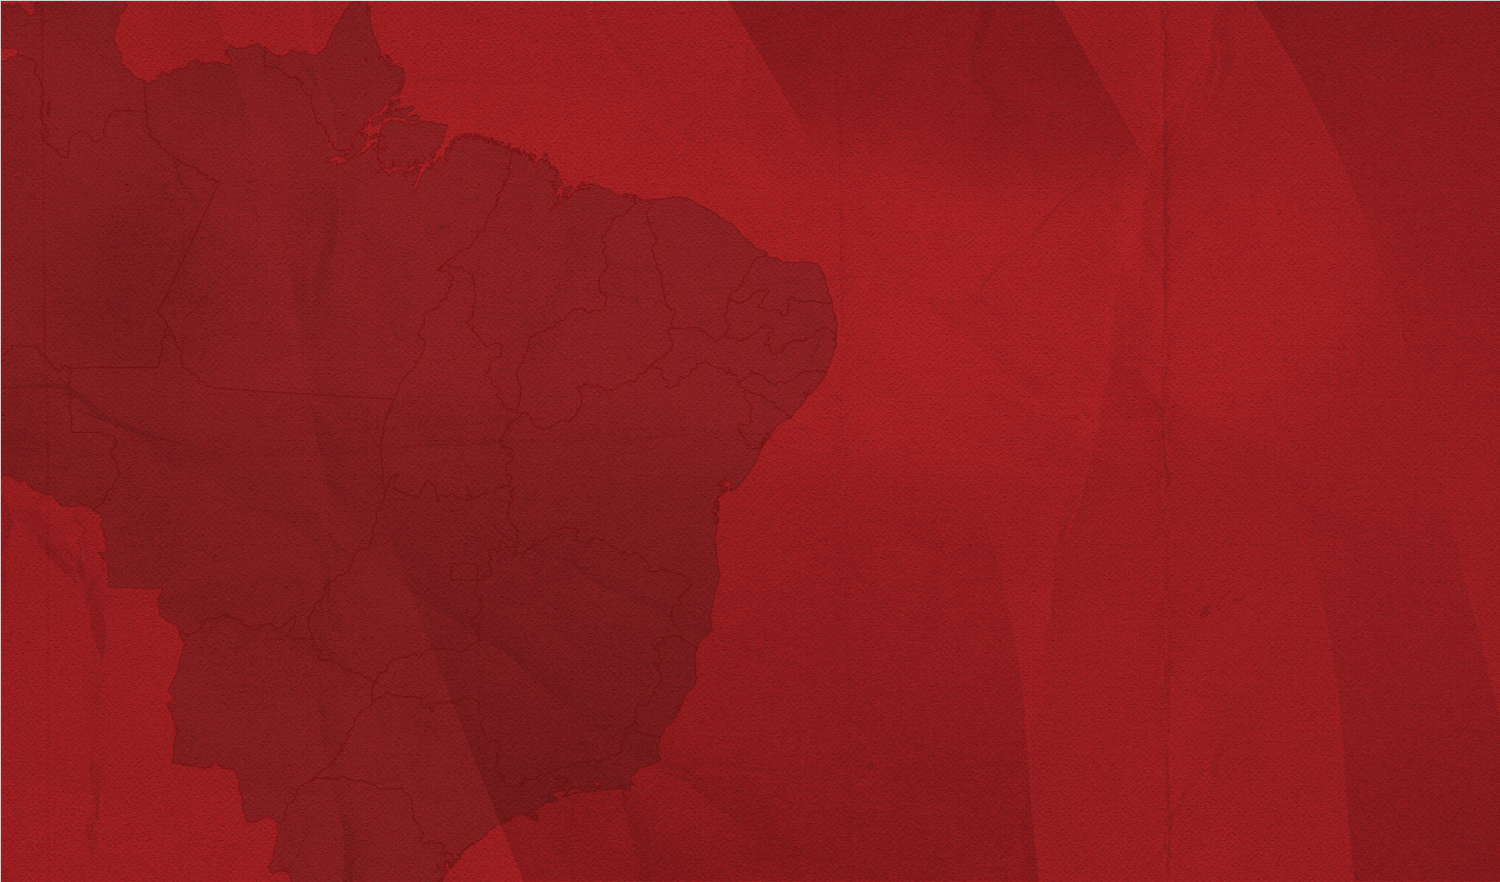
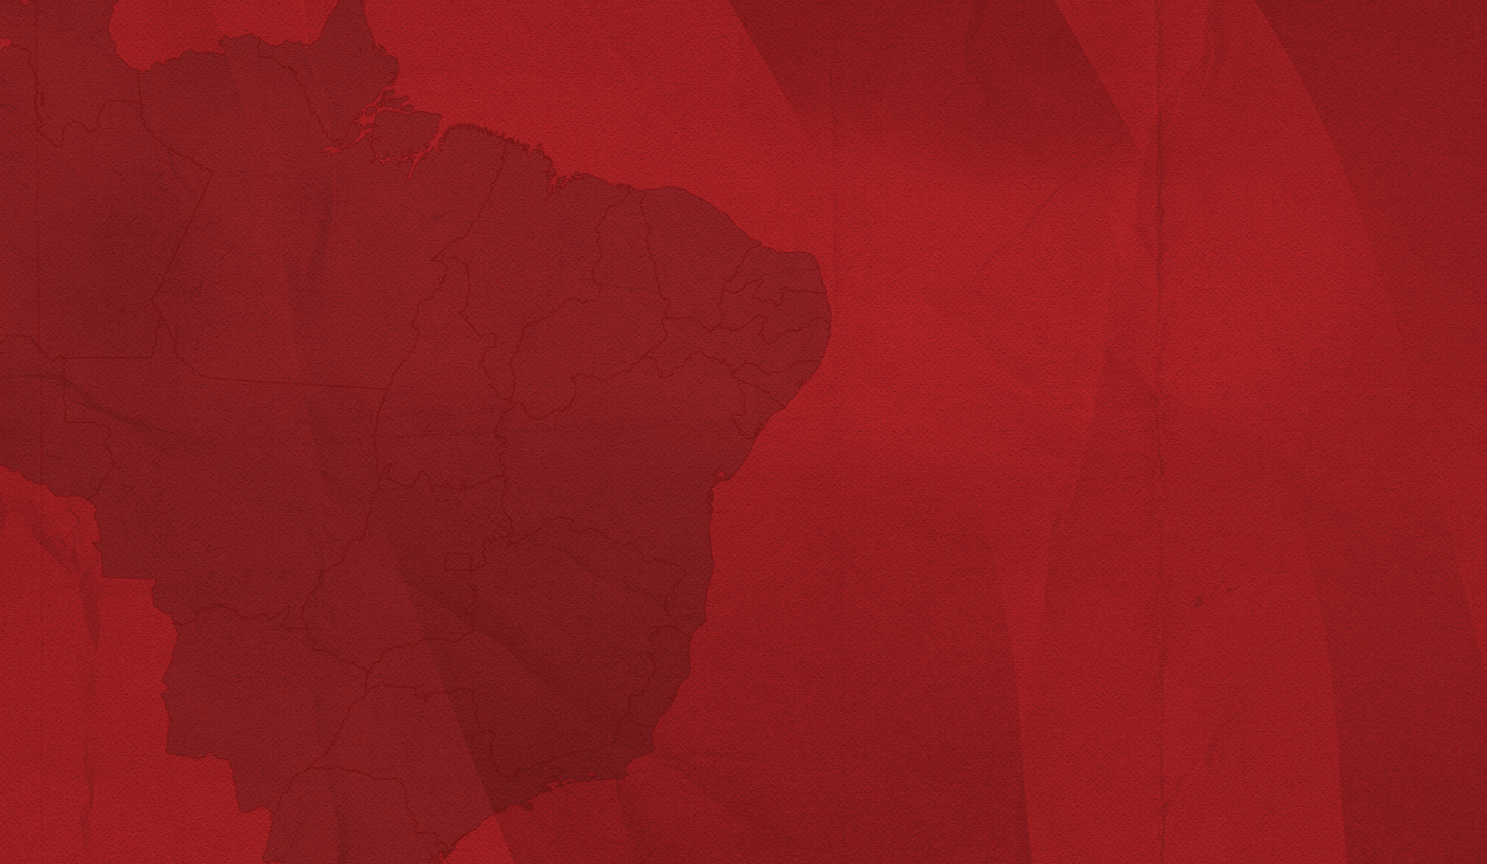
.
.

diff --git a/style.css b/style.css
@@ -70,15 +70,15 @@ a#login {
     margin-right: 20px;
     width: 58.13px;
     height: 20px;
-    font-size: 18px;
-    color: #cdc9c3;
+    font-size: 18px;;
+    text-decoration: none;
     
 }
 
 a.st-btn{
     background-color: #A11116;
     padding: 12px 30px;
-    color: #E8E6E3;
+    color: white;
     font-style: italic;
     font-size: 18px;
     font-weight: bolder;
@@ -98,8 +98,9 @@ section#first {
     flex-direction: column;
     width: 100%;
     height: 710.05px;
-    background-image: url(images/F3siGd3WcAA9eXk.jpeg);
-    background-size: cover;
+    background-image: url(images/MORUMBI.png);
+    background-size: contain;
+    border: none;
 
 }
 
@@ -178,15 +179,18 @@ p#last-line {
 }
 
 #container3 {
-    width: 500px;
-    margin-left: 541px;
-    margin-top: 106px;
+    width: 1814px;
+    margin: 0px 0px 40px;
+    display: grid;
+    align-items: center;
+    justify-content: center;
+    grid-gap: 40px;
+    margin-top: 20px;
+   
 }
 
 a.st-btn-b{
     background-color: #151718;
-    width: 288.38px;
-    height: 53.19px;
     padding: 12px 30px;
     color: #E8E6E3;
     font-style: italic;
@@ -204,8 +208,43 @@ a.st-btn-b:hover {
 section#third {
     width: 100%;
     height: 1626.19px;
-    border: 10px solid black;
+    background-image: url(images/bg_header+1.png);
+    display: block;
 }
+
+#h1-third {
+    font-size: 57px;
+    text-align: center;
+}
+
+#p-plan {
+    font-size: 22px;
+    text-align: center;
+}
+
+#p-plan-2 {
+    font-size: 16px;
+    text-align: center;
+}
+
+#button-choice {
+    width: 1814px;
+    margin: 0px 0px 40px;
+    display: grid;
+    align-items: center;
+    justify-content: center;
+    grid-gap: 40px;
+}
+
+#tri-morum, #tri-brasi {
+    font-size: 18px;
+    background-color: #B11116;
+    color: white;
+    height: 51px;
+    width: 257;
+    
+}
+
 
 /*------------------------------------------------------------------*/
 

diff --git a/index.html b/index.html
@@ -11,7 +11,7 @@
     <header>
         <section>
             <img src="images/spfc-st-logo.png" alt="logo-sócio-torcedor" id="logo-st">
-            <h1>SOMOS <span id="st-contagem">54.836</span> SÓCIOS TORCEDORES</h1>
+            <h1>SOMOS <span id="st-contagem">63.008</span> SÓCIOS TORCEDORES</h1>
             <div id="container">
                 <a href="#" id="login">LOGIN</a>
                 <a href="#" class="st-btn">SEJA SÓCIO TORCEDOR</a>
@@ -41,7 +41,15 @@
         </section>
 
         <section id="third">
-            
+            <h1 id="h1-third">ESCOLHA SEU PLANO!</h1>
+            <p id="p-plan">QUANTO MAIOR O VALOR, MAIORES SUAS RECOMPENSAS E MAIS VOCÊ CONTRIBUI COM O SPFC!</p>
+            <div id="button-choice">
+                <button id="tri-morum">TRICOLOR DO MORUMBI</button>
+                <button id="tri-brasi">TRICOLOR BRASILEIRO</button>
+            </div>
+            <p id="p-plan-2">Vocês pediram e nós escutamos. Planos mais baratos e exclusivos para quem é de fora de São Paulo.
+
+            </p>
         </section>
     </main>
     
